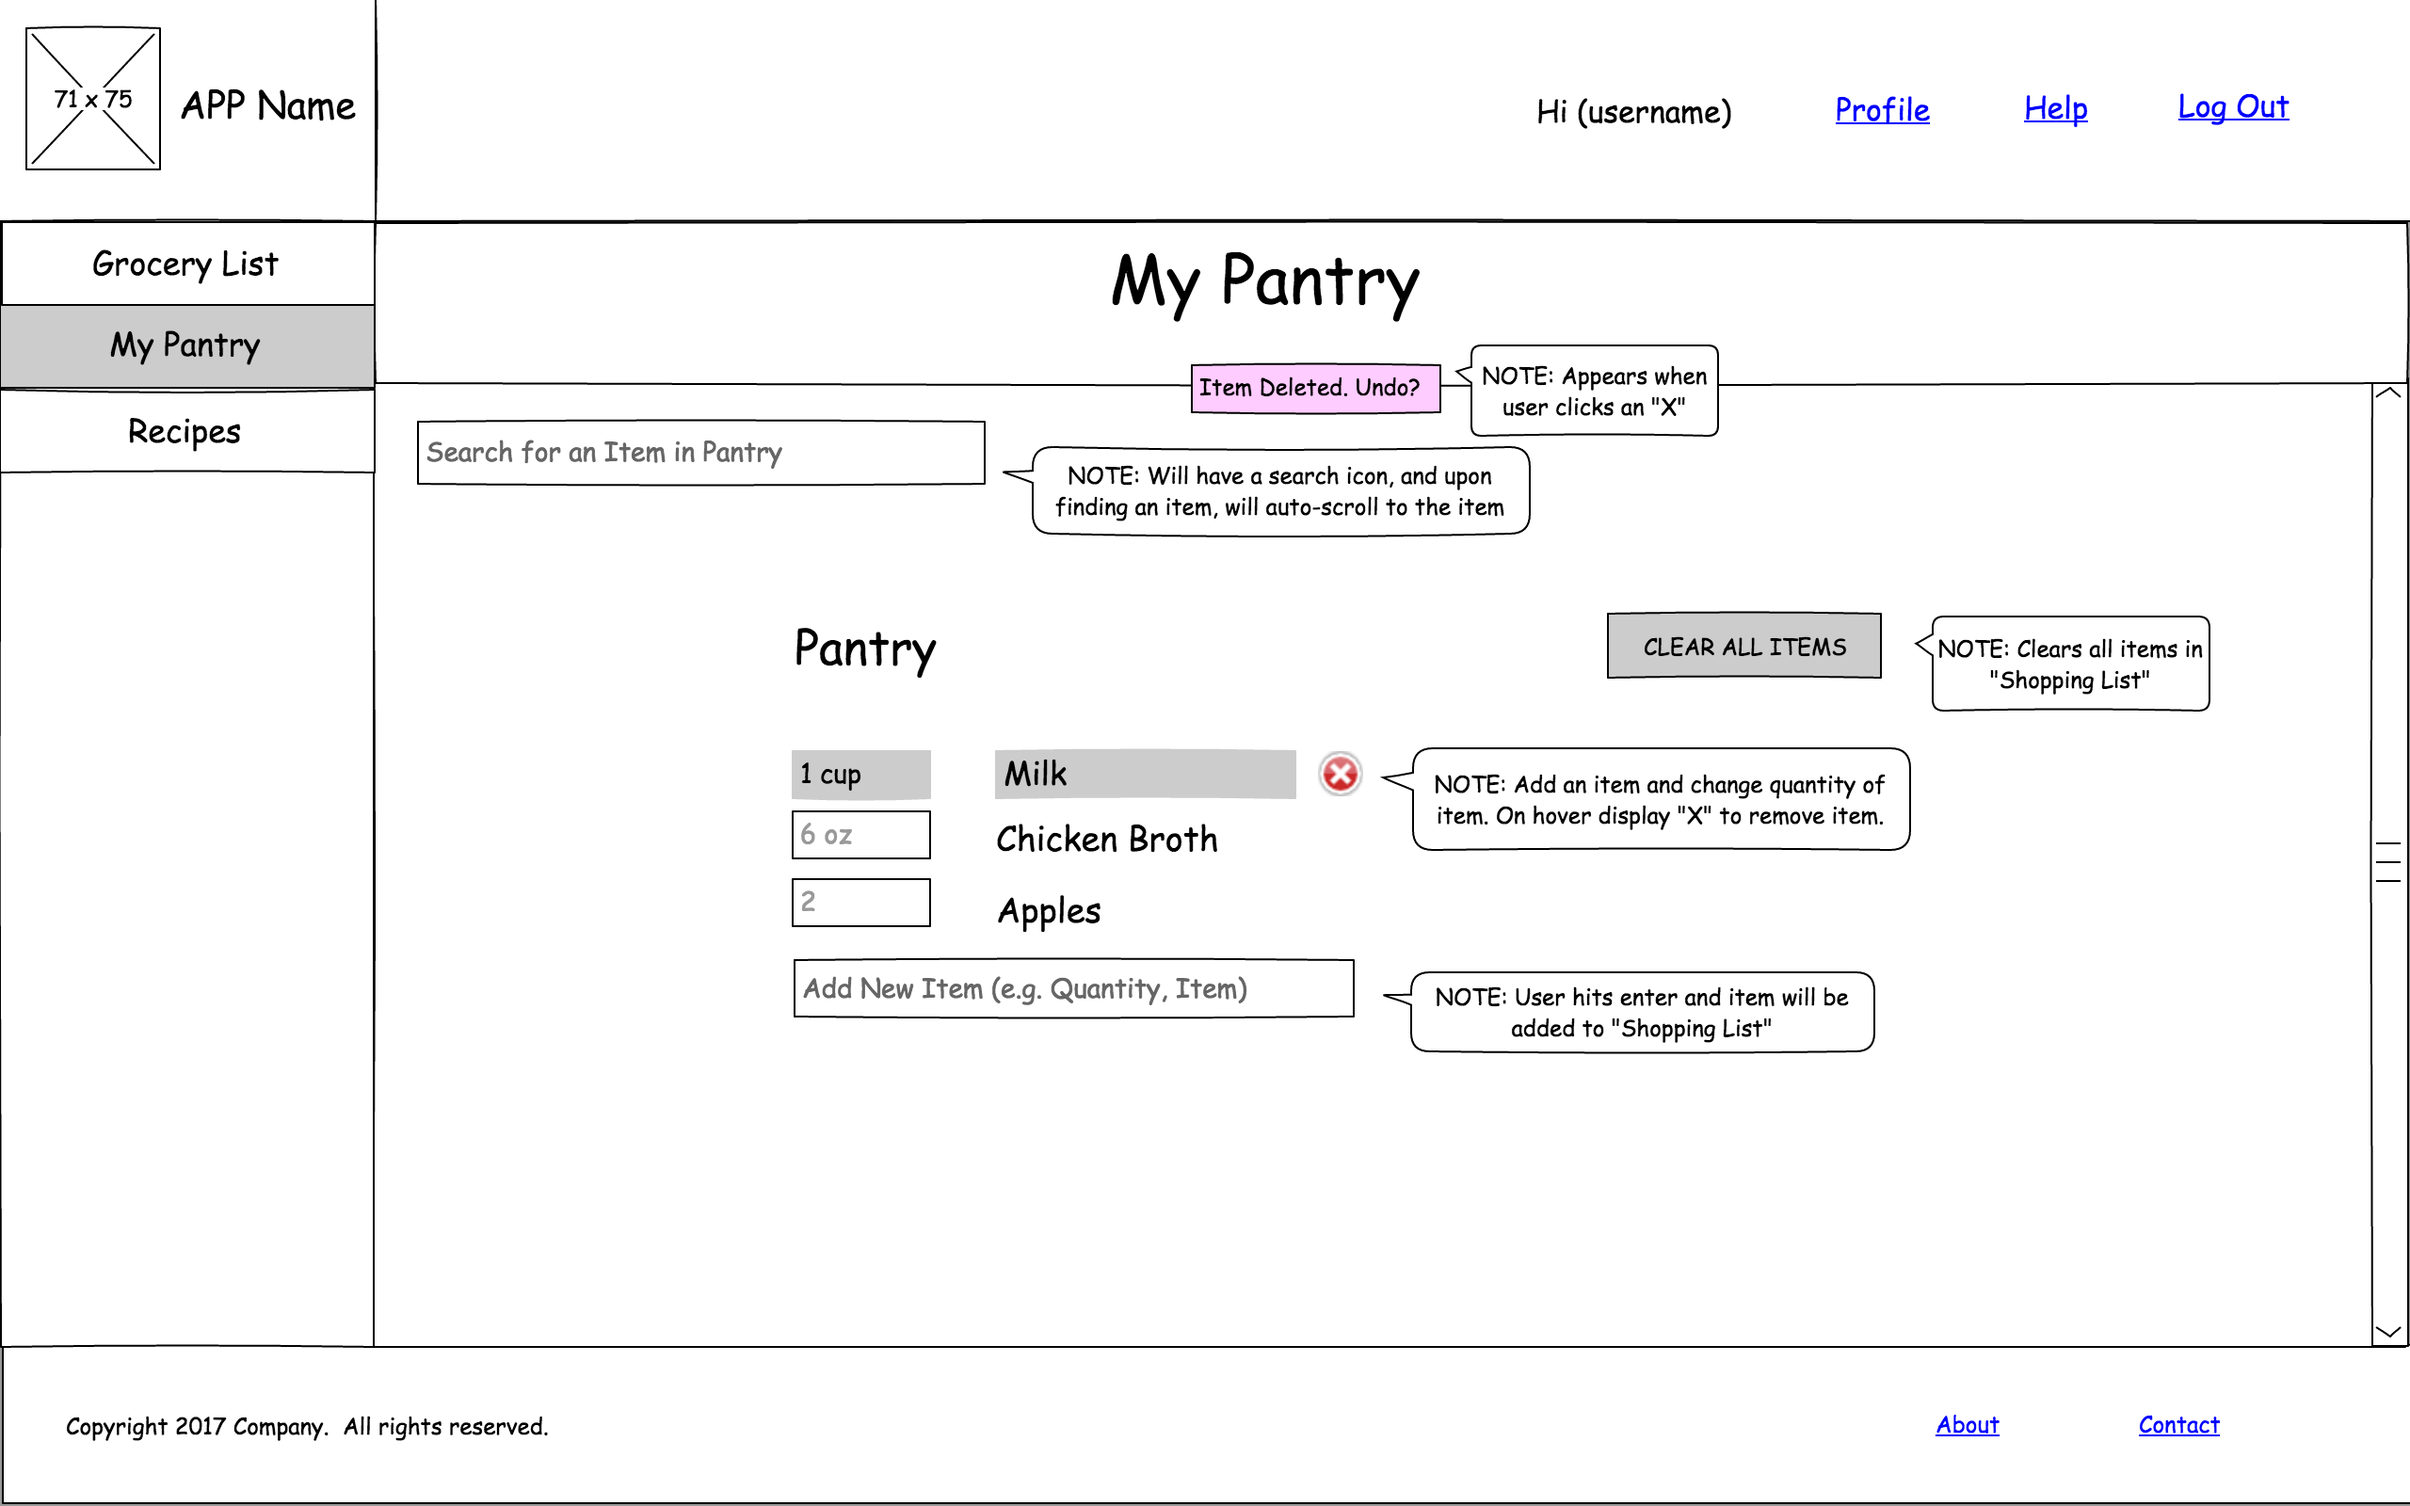
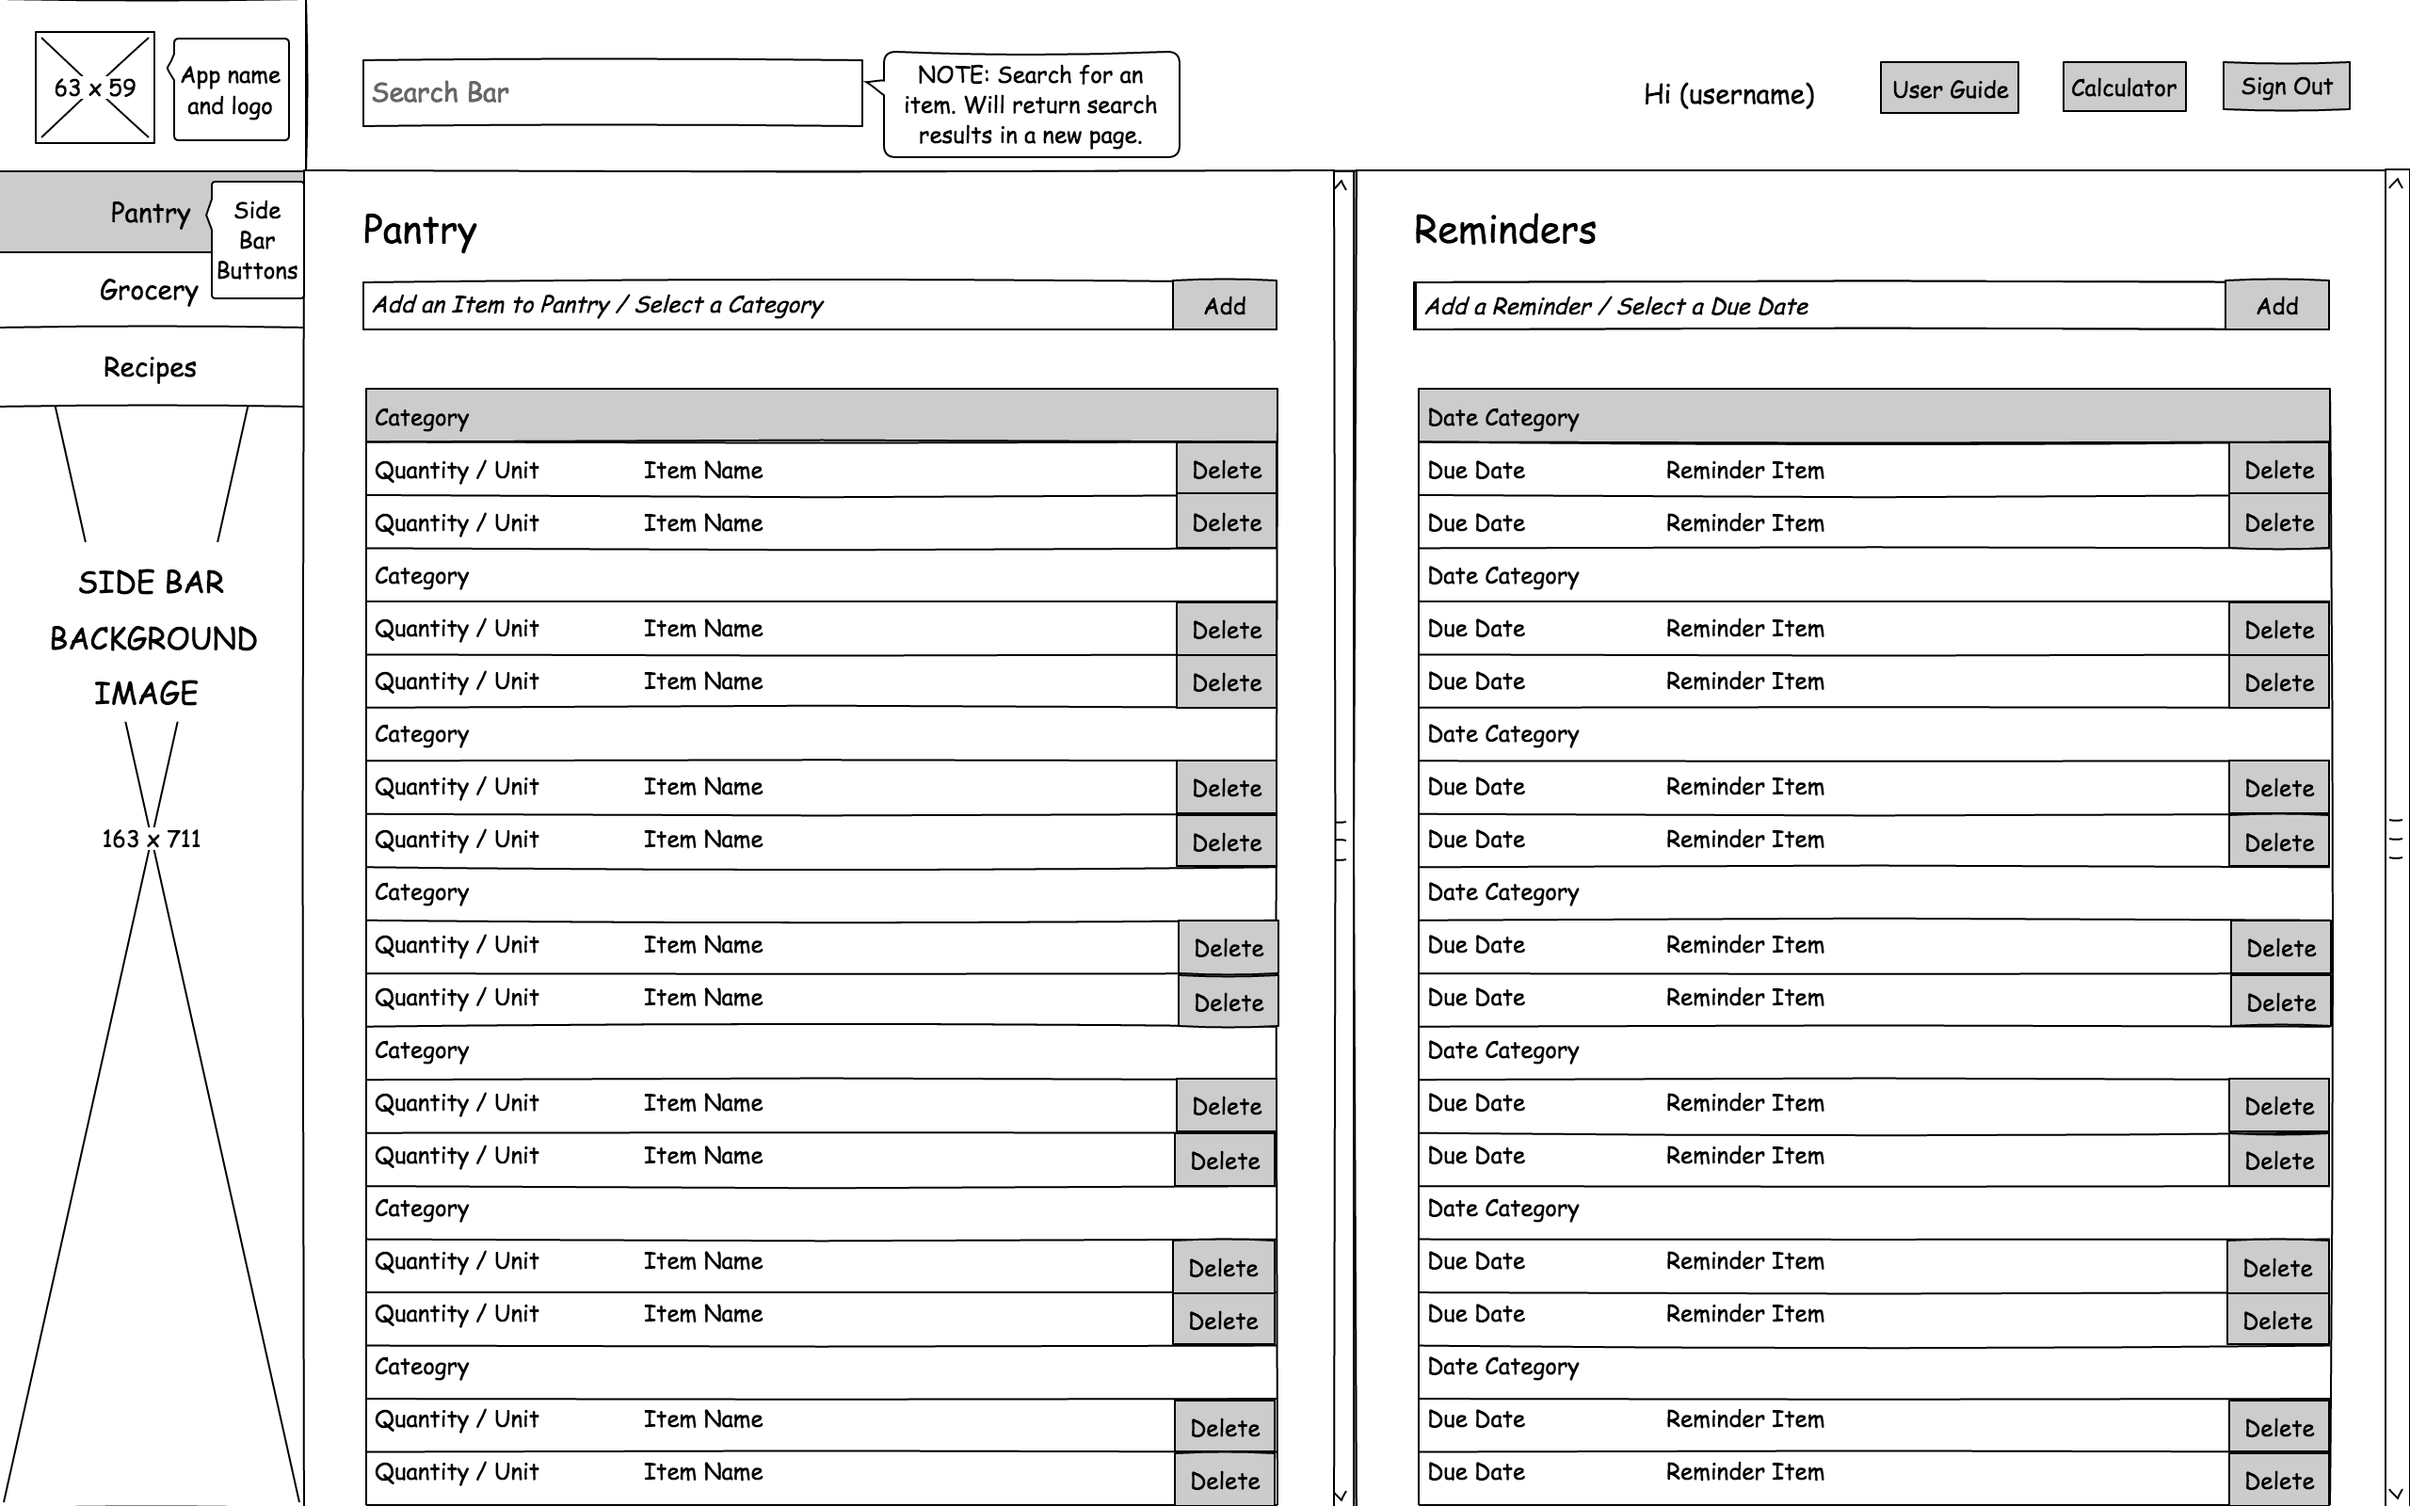
Add wireframes, update development_README.md, backend_tech.md, frontend_tech.md, and future_implementations.md

diff --git a/docs/proposal/development_README.md b/docs/proposal/development_README.md
@@ -14,38 +14,30 @@ Step 2: A production README
 Step 3: Hosting on Heroku
 
 Step 4: Phases
-- Phase 1: Tasks: User can add, update, and delete grocery items.
-- Phase 2: Lists: User can make grocery shopping lists and transfer items to "purchased" list.
-- Phase 3: List summary (time, num tasks, num completed): User can transfer
-purchases to pantry, and pantry will auto-update. Once updated, pantry
-will make a note of the last date the item was updated.
-- Phase 4: Search: Users can search for a pantry item and once item is
-found, the site will auto-scroll to that item.
-- Bonus 1: Recipe page where users can search for recipes. User can click on
-a recipe to be taken to that recipe's show page. User can rate and
-delete a recipe. User can add a new recipe.
-- Bonus 2: Pantry will cross-check ingredients for a recipe with a user's pantry
-and auto-generate a grocery list with missing items.  User can import
-recipes from another site, and pantry will extract out the ingredients
-and auto-generate the ingredient list for the user.
+- Phase 1: User can add, update, and delete pantry items.
+- Phase 2: User can add, update, delete grocery items, and transfer grocery items to "purchased" list.
+- Phase 3: User can transfer "purchased" groceries to Pantry. Duplicate items will be combined and new items will be created in the Pantry.
+- Phase 4: User can search for a pantry item or grocery item and show a list of searched items.
+- Phase 5: User can click on the info icon to open the "User Guide" or calculator icon to open the "Conversion Calculator". User can convert between units using the "Conversion Calculator".
+- Bonus 1: User can create, update, and delete recipes. User can click on recipe image in recipe index to be taken to the recipe detail page.
+- Bonus 2: User can create and delete reminders, and set due dates for reminders.
 
 
 ## Implementation Timeline
 - Step 1: Backend setup and Front End User Authentication (2 days).
 Objective: Functioning rails project with front-end Authentication
 
-- Phase 1: Tasks- Model, API, and components (2 days). Objectives:  
-User can add, update, and delete grocery items.
+- Phase 1: Model, API, and components (1.5 days). Objectives:  
+User can add, update, and delete pantry items.
 
-- Phase 2: Model, API, and components (2 days). Objective: Grocery lists
-can be created, read, edited and destroyed through the API.
+- Phase 2: Model, API, and components (2 days). Objective: User can add, update, delete grocery items, and transfer grocery items to "purchased" list.
 
-- Phase 3: Pantry (2 days). Objective: Pantry items can be created, read,
-edited and destroyed through the API.
+- Phase 3: Pantry (2 days). Objective: User can transfer "purchased" groceries to Pantry. Duplicate items will be combined and new items will be created in the Pantry.
 
-- Phase 4: Search (1 day). Objective: Pantry and grocery items are searchable.
+- Phase 4: Search (1 day). Objective: User can search for a pantry item or grocery item and show a list of searched items.
 
-- Bonus 1: Add Recipe Page (1 day, W2 Th 6pm). Objective: Add RecipeScreen,
-RecipeView, and create a form to add a new recipe.
-- Bonus 2: Objective: Pantry items are cross-checked with recipe ingredients
-before generation of grocery list. Recipes can be imported from other websites.
+- Phase 5: Drawers (0.5 day). Objective: User can click on the info icon to open the "User Guide" or calculator icon to open the "Conversion Calculator". User can convert between units using the "Conversion Calculator".
+
+- Bonus 1: Recipes (2 days). Objective: User can create, update, and delete recipes. User can click on recipe image in recipe index to be taken to the recipe detail page.
+
+- Bonus 2: Reminders (2 days). Objective: User can create and delete reminders, and set due dates for reminders.

diff --git a/docs/frontend_tech.md b/docs/frontend_tech.md
@@ -1,16 +1,19 @@
 # Frontend
 
-## npm
-Node package manager (npm) was used to install all the dependencies.
+## npm (Node package manager)
+npm is the default package manager for JavaScript in Node.js. npm was used to install all the dependencies. npm consists of a command line client that allows users to distribute JavaScript modules available on the registry.
 
 ## Webpack
-Webpack was used as the bundler for components.
+Webpack is an open-source JavaScript module bundler and was used as the bundler for components in the myPantry application. Webpack generates static assets for modules with dependencies. Webpack requires Node.js.
 
 ## React & Redux
-React & Redux is located in the frontend folder, and includes React-DOM and React-Router.
+React & Redux are open-source JavaScript libraries used for creating single-page applications. React is a library used for building user interfaces. Redux is a library commonly used with React for managing the application state.
 
 ## Babel
-Babel was used for transpiling jsx to Javascript.
+Babel is a source-to-source compiler that produces an equivalent source code from one language to another programming language. Babel was used for transpiling jsx to Javascript.
 
 ## Material-ui
-Material-ui is a library for text input and icons, and includes FontIcons, Text Field, and AutoComplete.
+Material-ui is Google's material design UI library built to be used with React components.
+
+## FontAwesome
+FontAwesome is an open-source site that provides a variety of scalable web font icons.

diff --git a/README.md b/README.md
@@ -1,9 +1,6 @@
-[myPantry](https://mypantry.herokuapp.com/#/) is a personal project by Meiyen Lau.
+[myPantry](https://mypantry.herokuapp.com/#/) is a personal project by Miriam Lau.
 
-myPantry is a web application for cooking enthusiasts. Inspired by
-RemembertheMilk, myPantry allows users to add items to their pantry,
-update and delete current pantry items, make grocery lists and
-update their pantry with purchased grocery items.
+myPantry is a web application for cooking enthusiasts. myPantry allows users to add items to their pantry, update and delete current pantry items, make grocery lists and update their pantry with purchased grocery items.
 
 ![homepage](./docs/homepage1.png)
 
@@ -28,17 +25,13 @@ update their pantry with purchased grocery items.
 
 
 ## Project Design
-myPantry was designed and built in about 2 weeks.
-
-A [proposal](./docs/proposal/development_README.md) was drafted to with an implementation timeline
-during the development process.
+A [proposal](./docs/proposal/development_README.md) was drafted with an implementation timeline during the development process.
 
 A [database schema](./docs/proposal/schema.md) was prepared in addition to the design proposal.
 
 
 ## Technology
-myPantry is a single-page application utilizing the Rails framework and
-the React library.
+myPantry is a single-page application implementing the Rails framework (backend) and the React library (frontend).
 - [Backend Dependencies](./docs/backend_tech.md)
 - [Frontend Dependencies](./docs/frontend_tech.md)
 

diff --git a/docs/backend_tech.md b/docs/backend_tech.md
@@ -1,13 +1,13 @@
 # Backend
 
 ## Heroku
-Heroku is the host for the myPantry web application.
+Heroku is the host for the myPantry web application. Heroku is a cloud platform used by developers to build, scale, and deploy web applications.
 
 ## Ruby on Rails
-myPantry runs on Ruby on Rails.
+myPantry runs on Ruby on Rails. Rails is a MVC (model-view-controller) server-side framework written in Ruby.
 
 ## Database
-myPantry uses PostgresSQL.
+myPantry uses PostgresSQL. PostgresSQL is an object-relational database management system, primarily used to securely store data and retrieve data upon requests. PostgresSQL is used for small and large applications and supports many concurrent users.
 
 ## Dependencies
-BCrypt was used for secure authentication.
+bcrypt was used for secure authentication. bcrypt is a hashing function for passwords, and is based on the Blowfish cipher.

diff --git a/docs/future_implementations.md b/docs/future_implementations.md
@@ -1,13 +1,9 @@
 # Future Implementations
 
-## Create and Upload Recipes
-Users will be able to upload and create Recipes.
-
-## Generate Grocery Lists From Recipes
+## Generate Grocery Items From Recipes
 Users will be able to auto-generate grocery lists from recipes. The list
 will cross-check user's pantry and generate a grocery list of the
 missing ingredients.
 
-## Auto-Import Ingredients from Recipe Websites
-Users can import recipes from recipe websites, and myPantry will
-auto-populate the ingredients for that recipe.
+## Auto-Import Recipes from Websites
+Users can import recipes from recipe websites.
